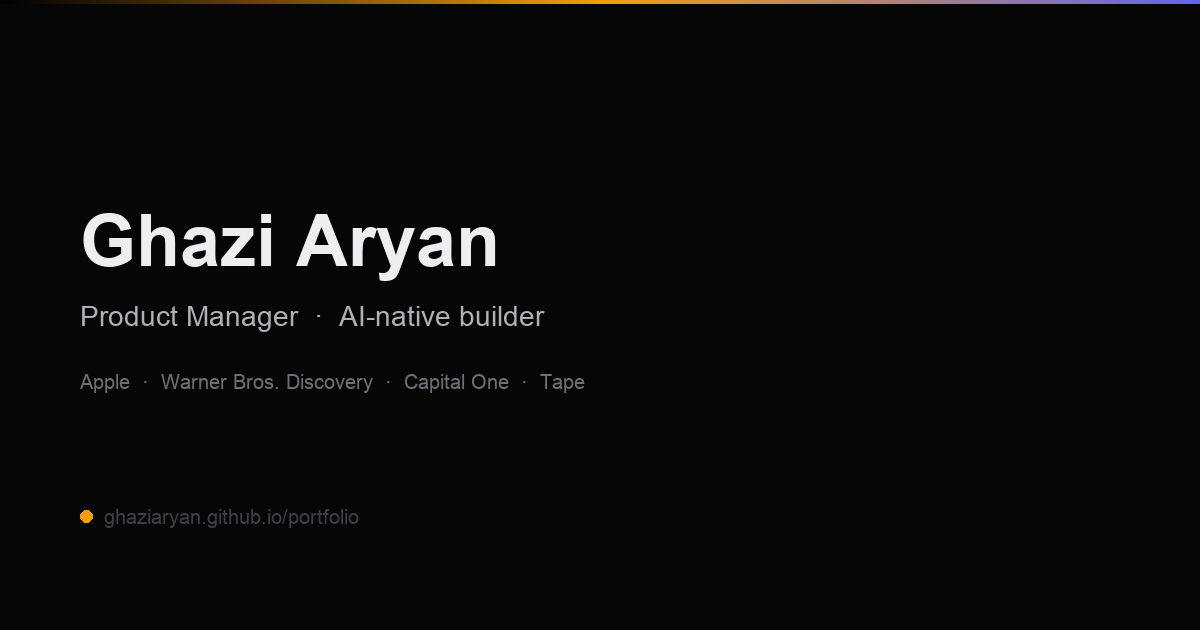
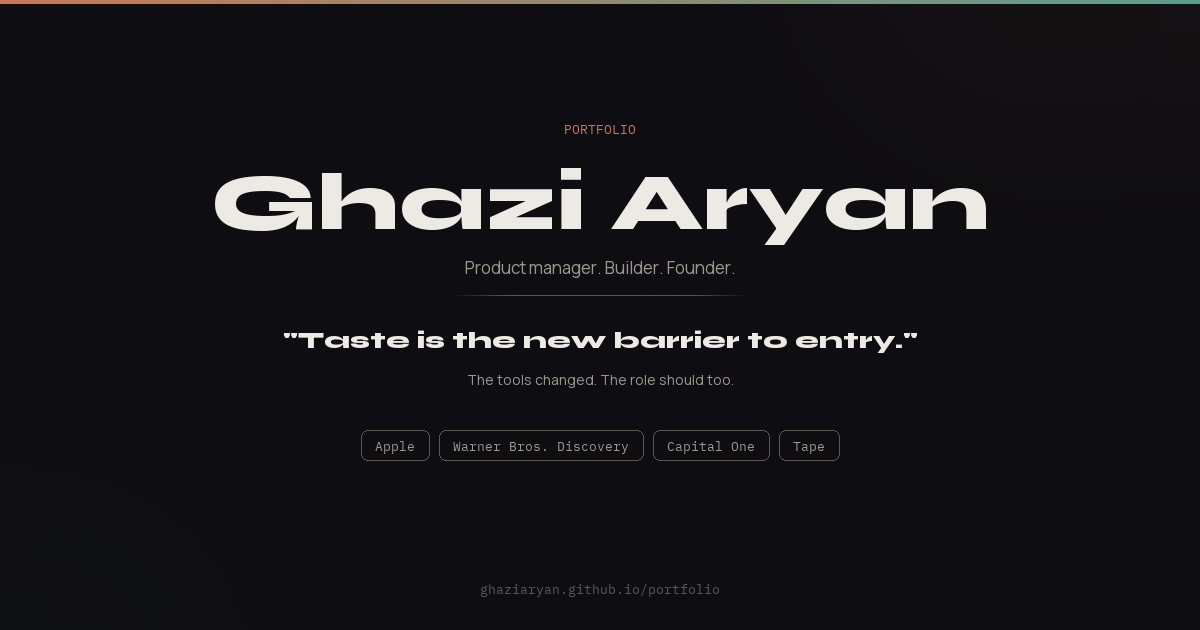
New OG image + timeline draw-on-scroll animation
- OG image rebuilt with site's design language: dark bg, Syne 800
  name, terracotta label, gradient divider, company badges
- Timeline section: line draws itself on scroll entry, dots scale in
  and fill with staggered text slide-in per entry

diff --git a/index.html b/index.html
@@ -734,19 +734,42 @@
             content: ''; position: absolute;
             left: 6px; top: 8px; bottom: 8px; width: 1px;
             background: linear-gradient(to bottom, var(--accent), var(--accent2), transparent);
+            transform-origin: top;
+            transform: scaleY(0);
+            transition: transform 1.4s cubic-bezier(0.16, 1, 0.3, 1);
         }
+        .tl.tl-draw::before { transform: scaleY(1); }
         .tl-i { position: relative; padding-bottom: 44px; }
         .tl-i:last-child { padding-bottom: 0; }
         .tl-dot {
             position: absolute; left: -36px; top: 6px;
             width: 13px; height: 13px; border-radius: 50%;
             background: var(--bg); border: 2px solid var(--accent);
-            z-index: 2; transition: all 0.3s var(--ease);
+            z-index: 2;
+            transform: scale(0);
+            transition: transform 0.5s var(--ease), background 0.4s, box-shadow 0.4s;
         }
-        .tl-i:first-child .tl-dot {
+        .tl-i.tl-active .tl-dot {
+            transform: scale(1);
             background: var(--accent);
-            box-shadow: 0 0 10px var(--accent-g);
+            box-shadow: 0 0 12px var(--accent-g);
         }
+        .tl-i .tl-role, .tl-i .tl-co, .tl-i .tl-desc, .tl-i .tl-when {
+            opacity: 0;
+            transform: translateX(-10px);
+            transition: opacity 0.5s var(--ease), transform 0.5s var(--ease);
+        }
+        .tl-i.tl-active .tl-role,
+        .tl-i.tl-active .tl-co,
+        .tl-i.tl-active .tl-desc,
+        .tl-i.tl-active .tl-when {
+            opacity: 1;
+            transform: translateX(0);
+        }
+        .tl-i.tl-active .tl-when { transition-delay: 0.05s; }
+        .tl-i.tl-active .tl-role { transition-delay: 0.1s; }
+        .tl-i.tl-active .tl-co { transition-delay: 0.15s; }
+        .tl-i.tl-active .tl-desc { transition-delay: 0.2s; }
         .tl-when {
             font-size: 12px; color: var(--t3);
             font-family: 'IBM Plex Mono', monospace;
@@ -1471,6 +1494,31 @@
             }, 6500);
         }
     });
+
+    // Timeline draw-on-scroll
+    const tl = document.querySelector('.tl');
+    const tlItems = document.querySelectorAll('.tl-i');
+    if (tl) {
+        const tlObs = new IntersectionObserver(entries => {
+            entries.forEach(e => {
+                if (e.isIntersecting) {
+                    tl.classList.add('tl-draw');
+                    tlObs.unobserve(tl);
+                }
+            });
+        }, { threshold: 0.1 });
+        tlObs.observe(tl);
+
+        const itemObs = new IntersectionObserver(entries => {
+            entries.forEach(e => {
+                if (e.isIntersecting) {
+                    e.target.classList.add('tl-active');
+                    itemObs.unobserve(e.target);
+                }
+            });
+        }, { threshold: 0.2, rootMargin: '0px 0px -40px 0px' });
+        tlItems.forEach(item => itemObs.observe(item));
+    }
 
     // Phone frame parallax on scroll — staggered vertical offset
     const phoneFrames = document.querySelectorAll('.phone-frame');

diff --git a/v5.html b/v5.html
@@ -734,19 +734,42 @@
             content: ''; position: absolute;
             left: 6px; top: 8px; bottom: 8px; width: 1px;
             background: linear-gradient(to bottom, var(--accent), var(--accent2), transparent);
+            transform-origin: top;
+            transform: scaleY(0);
+            transition: transform 1.4s cubic-bezier(0.16, 1, 0.3, 1);
         }
+        .tl.tl-draw::before { transform: scaleY(1); }
         .tl-i { position: relative; padding-bottom: 44px; }
         .tl-i:last-child { padding-bottom: 0; }
         .tl-dot {
             position: absolute; left: -36px; top: 6px;
             width: 13px; height: 13px; border-radius: 50%;
             background: var(--bg); border: 2px solid var(--accent);
-            z-index: 2; transition: all 0.3s var(--ease);
+            z-index: 2;
+            transform: scale(0);
+            transition: transform 0.5s var(--ease), background 0.4s, box-shadow 0.4s;
         }
-        .tl-i:first-child .tl-dot {
+        .tl-i.tl-active .tl-dot {
+            transform: scale(1);
             background: var(--accent);
-            box-shadow: 0 0 10px var(--accent-g);
+            box-shadow: 0 0 12px var(--accent-g);
         }
+        .tl-i .tl-role, .tl-i .tl-co, .tl-i .tl-desc, .tl-i .tl-when {
+            opacity: 0;
+            transform: translateX(-10px);
+            transition: opacity 0.5s var(--ease), transform 0.5s var(--ease);
+        }
+        .tl-i.tl-active .tl-role,
+        .tl-i.tl-active .tl-co,
+        .tl-i.tl-active .tl-desc,
+        .tl-i.tl-active .tl-when {
+            opacity: 1;
+            transform: translateX(0);
+        }
+        .tl-i.tl-active .tl-when { transition-delay: 0.05s; }
+        .tl-i.tl-active .tl-role { transition-delay: 0.1s; }
+        .tl-i.tl-active .tl-co { transition-delay: 0.15s; }
+        .tl-i.tl-active .tl-desc { transition-delay: 0.2s; }
         .tl-when {
             font-size: 12px; color: var(--t3);
             font-family: 'IBM Plex Mono', monospace;
@@ -1471,6 +1494,31 @@
             }, 6500);
         }
     });
+
+    // Timeline draw-on-scroll
+    const tl = document.querySelector('.tl');
+    const tlItems = document.querySelectorAll('.tl-i');
+    if (tl) {
+        const tlObs = new IntersectionObserver(entries => {
+            entries.forEach(e => {
+                if (e.isIntersecting) {
+                    tl.classList.add('tl-draw');
+                    tlObs.unobserve(tl);
+                }
+            });
+        }, { threshold: 0.1 });
+        tlObs.observe(tl);
+
+        const itemObs = new IntersectionObserver(entries => {
+            entries.forEach(e => {
+                if (e.isIntersecting) {
+                    e.target.classList.add('tl-active');
+                    itemObs.unobserve(e.target);
+                }
+            });
+        }, { threshold: 0.2, rootMargin: '0px 0px -40px 0px' });
+        tlItems.forEach(item => itemObs.observe(item));
+    }
 
     // Phone frame parallax on scroll — staggered vertical offset
     const phoneFrames = document.querySelectorAll('.phone-frame');
